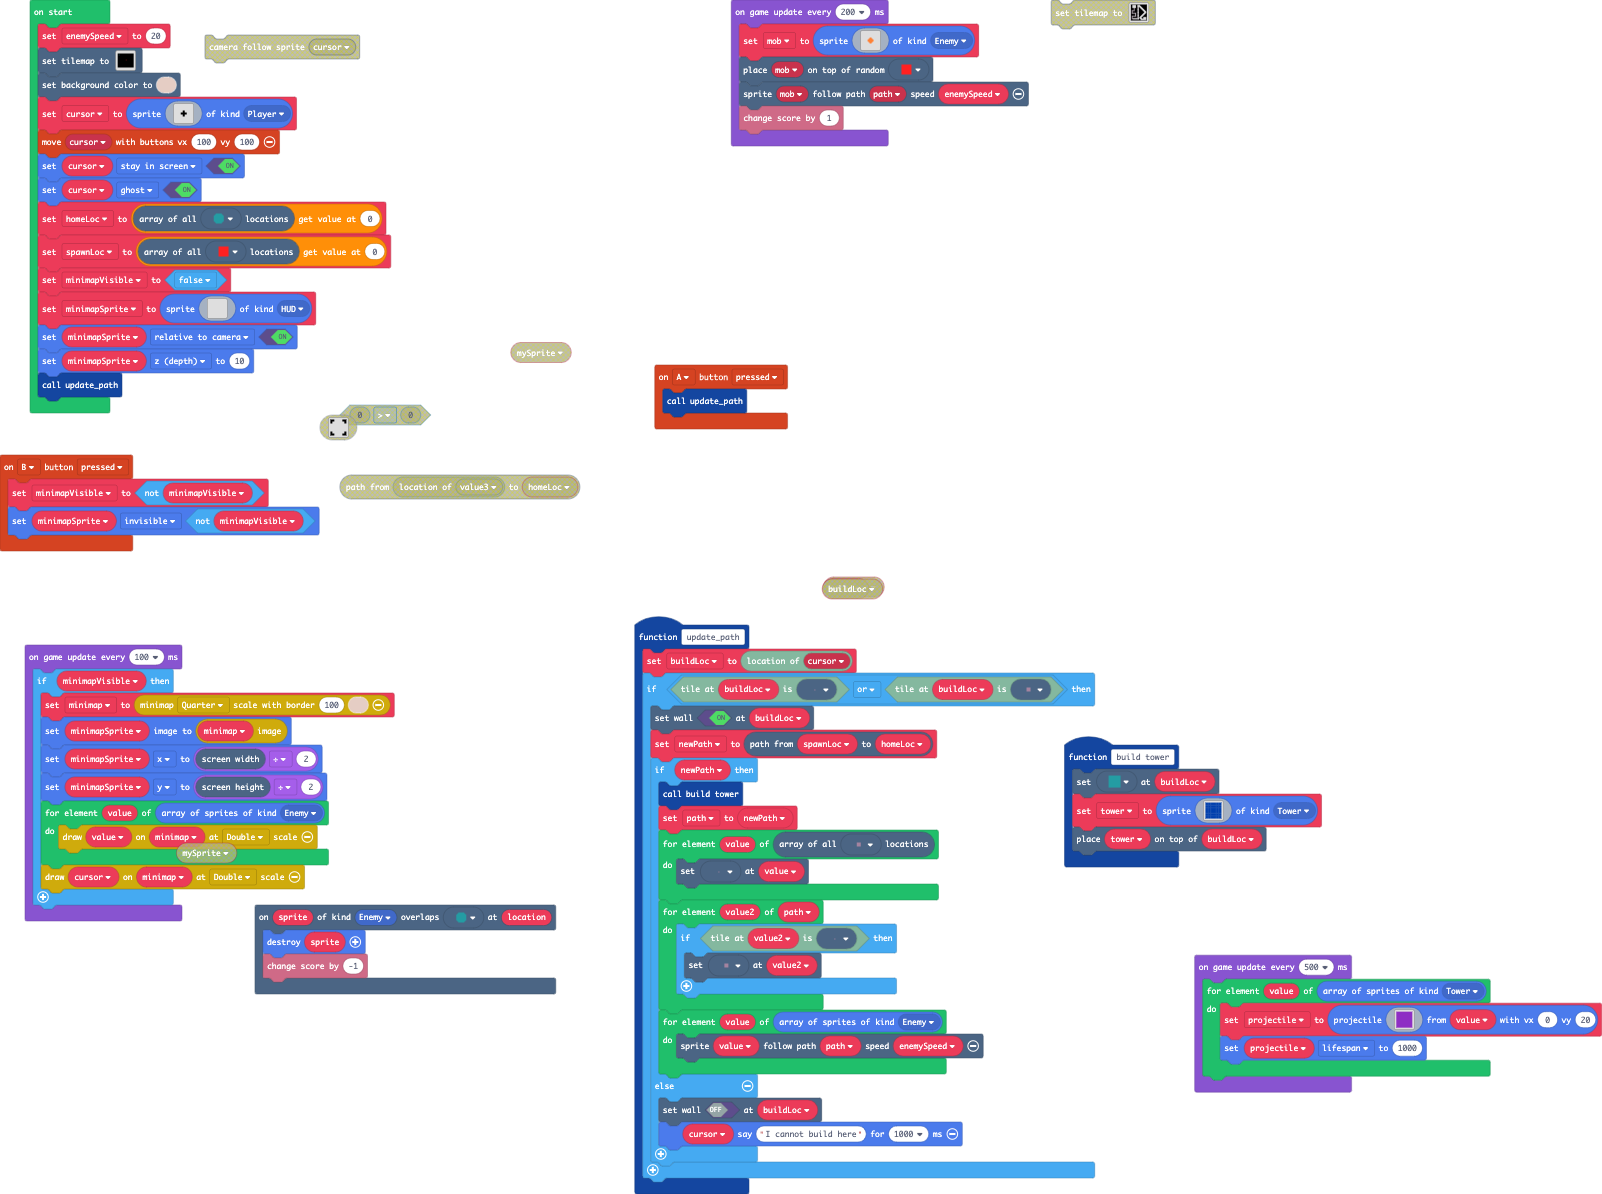
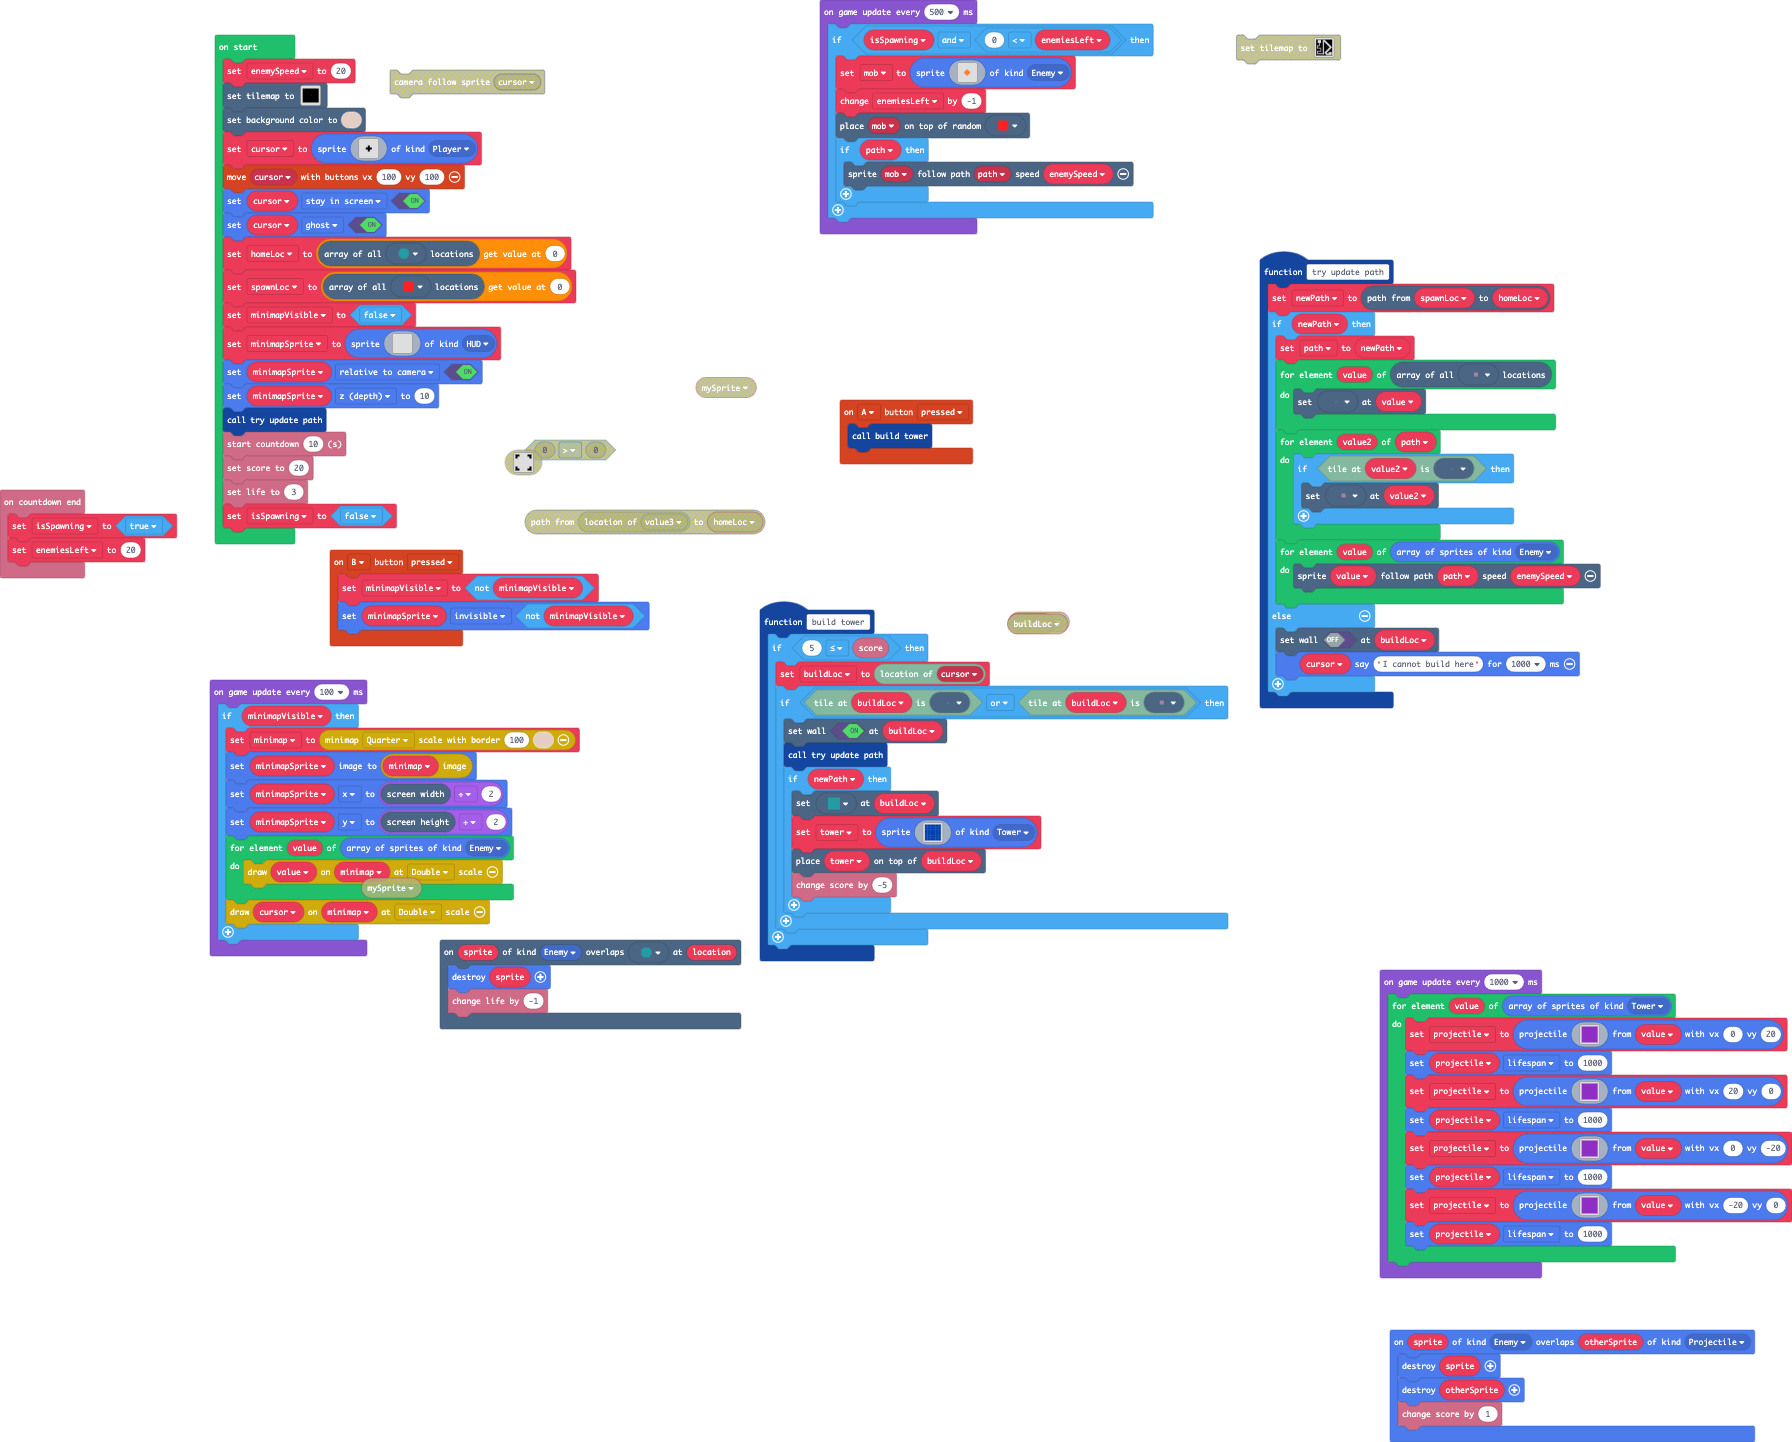
Update pxt.json, main.blocks, main.ts

diff --git a/main.ts b/main.ts
@@ -194,9 +194,35 @@ f f f f f f f f f f f f f f f f
 . . . . . . . . . . . . . . . . 
 `
 }
+controller.B.onEvent(ControllerButtonEvent.Pressed, function () {
+    minimapVisible = !(minimapVisible)
+    minimapSprite.setFlag(SpriteFlag.Invisible, !(minimapVisible))
+})
+sprites.onOverlap(SpriteKind.Enemy, SpriteKind.Projectile, function (sprite, otherSprite) {
+    sprite.destroy()
+    otherSprite.destroy()
+    info.changeScoreBy(1)
+})
+controller.A.onEvent(ControllerButtonEvent.Pressed, function () {
+    build_tower()
+})
+info.onCountdownEnd(function () {
+    isSpawning = true
+    enemiesLeft = 20
+})
+scene.onOverlapTile(SpriteKind.Enemy, myTiles.tile2, function (sprite, location) {
+    sprite.destroy()
+    info.changeLifeBy(-1)
+})
 function build_tower () {
-    tiles.setTileAt(buildLoc, myTiles.tile9)
-    tower = sprites.create(img`
+    if (5 <= info.score()) {
+        buildLoc = tilemap.locationOfSprite(cursor)
+        if (tilemap.tileIs(buildLoc, myTiles.tile5) || tilemap.tileIs(buildLoc, myTiles.tile7)) {
+            tiles.setWallAt(buildLoc, true)
+            try_update_path()
+            if (newPath) {
+                tiles.setTileAt(buildLoc, myTiles.tile9)
+                tower = sprites.create(img`
 8 8 8 8 8 8 
 8 8 8 8 8 8 
 8 8 8 8 8 8 
@@ -204,51 +230,41 @@ function build_tower () {
 8 8 8 8 8 8 
 8 8 8 8 8 8 
 `, SpriteKind.Tower)
-    tiles.placeOnTile(tower, buildLoc)
-}
-controller.B.onEvent(ControllerButtonEvent.Pressed, function () {
-    minimapVisible = !(minimapVisible)
-    minimapSprite.setFlag(SpriteFlag.Invisible, !(minimapVisible))
-})
-function update_path () {
-    buildLoc = tilemap.locationOfSprite(cursor)
-    if (tilemap.tileIs(buildLoc, myTiles.tile5) || tilemap.tileIs(buildLoc, myTiles.tile7)) {
-        tiles.setWallAt(buildLoc, true)
-        newPath = scene.aStar(spawnLoc, homeLoc)
-        if (newPath) {
-            build_tower()
-            path = newPath
-            for (let value of tiles.getTilesByType(myTiles.tile7)) {
-                tiles.setTileAt(value, myTiles.tile5)
+                tiles.placeOnTile(tower, buildLoc)
+                info.changeScoreBy(-5)
             }
-            for (let value2 of path) {
-                if (tilemap.tileIs(value2, myTiles.tile5)) {
-                    tiles.setTileAt(value2, myTiles.tile7)
-                }
-            }
-            for (let value of sprites.allOfKind(SpriteKind.Enemy)) {
-                scene.followPath(value, path, enemySpeed)
-            }
-        } else {
-            tiles.setWallAt(buildLoc, false)
-            cursor.say("I cannot build here", 1000)
         }
     }
 }
-controller.A.onEvent(ControllerButtonEvent.Pressed, function () {
-    update_path()
-})
-scene.onOverlapTile(SpriteKind.Enemy, myTiles.tile2, function (sprite, location) {
-    sprite.destroy()
-    info.changeScoreBy(-1)
-})
+function try_update_path () {
+    newPath = scene.aStar(spawnLoc, homeLoc)
+    if (newPath) {
+        path = newPath
+        for (let value of tiles.getTilesByType(myTiles.tile7)) {
+            tiles.setTileAt(value, myTiles.tile5)
+        }
+        for (let value2 of path) {
+            if (tilemap.tileIs(value2, myTiles.tile5)) {
+                tiles.setTileAt(value2, myTiles.tile7)
+            }
+        }
+        for (let value of sprites.allOfKind(SpriteKind.Enemy)) {
+            scene.followPath(value, path, enemySpeed)
+        }
+    } else {
+        tiles.setWallAt(buildLoc, false)
+        cursor.say("I cannot build here", 1000)
+    }
+}
 let projectile: Sprite = null
 let mob: Sprite = null
 let minimap2: minimap.Minimap = null
 let path: tiles.Location[] = []
-let newPath: tiles.Location[] = []
 let tower: Sprite = null
+let newPath: tiles.Location[] = []
 let buildLoc: tiles.Location = null
+let enemiesLeft = 0
+let isSpawning = false
 let minimapSprite: Sprite = null
 let minimapVisible = false
 let spawnLoc: tiles.Location = null
@@ -322,7 +338,11 @@ minimapSprite = sprites.create(img`
 `, SpriteKind.HUD)
 minimapSprite.setFlag(SpriteFlag.RelativeToCamera, true)
 minimapSprite.z = 10
-update_path()
+try_update_path()
+info.startCountdown(10)
+info.setScore(20)
+info.setLife(3)
+isSpawning = false
 game.onUpdateInterval(100, function () {
     if (minimapVisible) {
         minimap2 = minimap.minimap(MinimapScale.Quarter, 100, 13)
@@ -335,8 +355,9 @@ game.onUpdateInterval(100, function () {
         minimap.includeSprite(minimap2, cursor, MinimapSpriteScale.Double)
     }
 })
-game.onUpdateInterval(200, function () {
-    mob = sprites.create(img`
+game.onUpdateInterval(500, function () {
+    if (isSpawning && 0 < enemiesLeft) {
+        mob = sprites.create(img`
 . . . . . . . . . . . . . . . . 
 . . . . . . . . . . . . . . . . 
 . . . . . . . . . . . . . . . . 
@@ -354,16 +375,34 @@ game.onUpdateInterval(200, function () {
 . . . . . . . . . . . . . . . . 
 . . . . . . . . . . . . . . . . 
 `, SpriteKind.Enemy)
-    tiles.placeOnRandomTile(mob, myTiles.tile4)
-    scene.followPath(mob, path, enemySpeed)
-    info.changeScoreBy(1)
+        enemiesLeft += -1
+        tiles.placeOnRandomTile(mob, myTiles.tile4)
+        if (path) {
+            scene.followPath(mob, path, enemySpeed)
+        }
+    }
 })
-game.onUpdateInterval(500, function () {
+game.onUpdateInterval(1000, function () {
     for (let value of sprites.allOfKind(SpriteKind.Tower)) {
         projectile = sprites.createProjectileFromSprite(img`
 a a 
 a a 
 `, value, 0, 20)
+        projectile.lifespan = 1000
+        projectile = sprites.createProjectileFromSprite(img`
+a a 
+a a 
+`, value, 20, 0)
+        projectile.lifespan = 1000
+        projectile = sprites.createProjectileFromSprite(img`
+a a 
+a a 
+`, value, 0, -20)
+        projectile.lifespan = 1000
+        projectile = sprites.createProjectileFromSprite(img`
+a a 
+a a 
+`, value, -20, 0)
         projectile.lifespan = 1000
     }
 })
